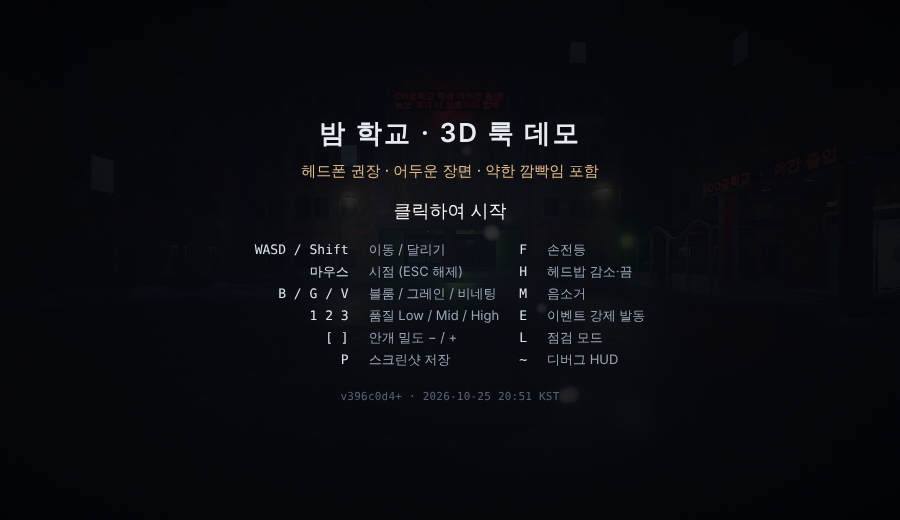
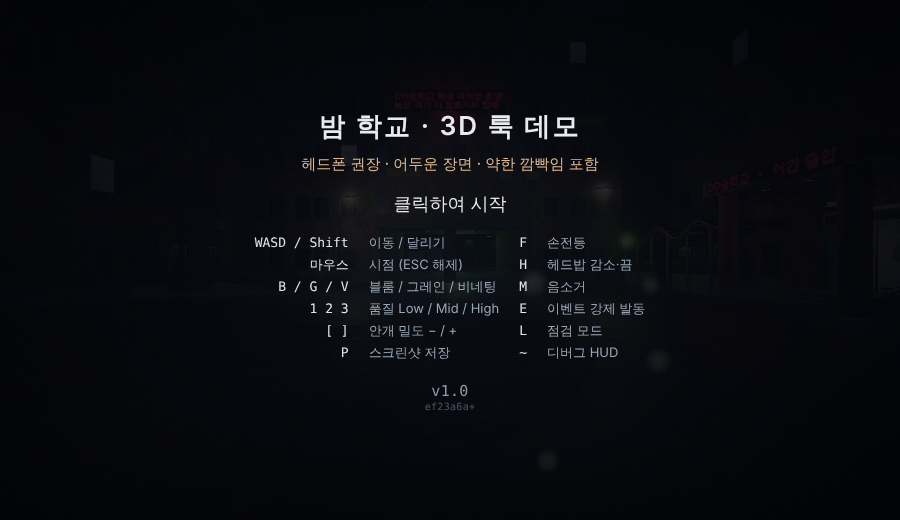
버전 표시를 v1.0 형식으로 단순화(큰 글씨 번호 + 작은 해시), package.json 을 버전 기준으로, main 반영 시 번호 올리는 규칙 추가
Claude-Session: https://claude.ai/code/session_01PbAFjroLPPPYs6SSpPc91i

diff --git a/vite.config.js b/vite.config.js
@@ -1,4 +1,5 @@
 import { execSync } from 'node:child_process';
+import { readFileSync } from 'node:fs';
 import { defineConfig } from 'vite';
 
 const git = (cmd) => {
@@ -9,21 +10,26 @@ const git = (cmd) => {
   }
 };
 
-// 시작 화면에 표시할 버전: 커밋 해시(+ 저장 안 된 변경이 있으면 '+') 와 빌드 시각(KST).
-// 배포(GitHub Actions)된 화면의 해시를 푸시한 커밋과 대조해 새 배포가 반영됐는지 확인한다.
+// 시작 화면 버전: 큰 글씨 `v1.0` (package.json 의 major.minor) + 작은 글씨 커밋 해시.
+// 번호는 `main` 에 반영할 때마다 올린다(CLAUDE.md). 번호를 올리는 걸 잊어도 해시로 새 배포를 구분할 수 있다.
+// 해시 끝 '+' = 커밋 안 된 변경이 있는 로컬 빌드, 개발 서버는 'dev · 해시'.
 function appVersion(command) {
+  const [major, minor] = JSON.parse(readFileSync('package.json', 'utf8')).version.split('.');
   const hash = git('rev-parse --short HEAD') || 'unknown';
   const dirty = git('status --porcelain') ? '+' : '';
-  if (command === 'serve') return `dev · ${hash}${dirty}`;
   const t = new Intl.DateTimeFormat('sv-SE', {
     timeZone: 'Asia/Seoul', year: 'numeric', month: '2-digit', day: '2-digit', hour: '2-digit', minute: '2-digit', hour12: false,
   }).format(new Date());
-  return `v${hash}${dirty} · ${t} KST`;
+  return {
+    label: `v${major}.${minor}`,
+    build: command === 'serve' ? `dev · ${hash}${dirty}` : `${hash}${dirty}`,
+    time: `${t} KST`,
+  };
 }
 
 export default defineConfig(({ command }) => ({
   base: './', // GitHub Pages 하위 경로(/schoolgame/)에서도 에셋을 찾도록 상대 경로 사용
-  define: { __APP_VERSION__: JSON.stringify(appVersion(command)) },
+  define: { __APP_VERSION__: JSON.stringify(appVersion(command)) }, // { label, build, time }
   build: { chunkSizeWarningLimit: 1200 },
   server: { host: true },
 }));

diff --git a/index.html b/index.html
@@ -21,7 +21,9 @@
     table.keys { margin: 0 auto; border-collapse: collapse; font-size: 13px; color: #9aa6b6; }
     table.keys td { padding: 2px 10px; text-align: left; }
     table.keys td:nth-child(odd) { color: #dfe5ee; font-family: ui-monospace, monospace; text-align: right; }
-    #version { margin-top: 18px; font: 11px/1.4 ui-monospace, monospace; color: #566273; letter-spacing: 0.02em; }
+    #version { margin-top: 18px; font-family: ui-monospace, monospace; letter-spacing: 0.02em; }
+    #version .ver-main { font-size: 15px; color: #8d99a9; }
+    #version .ver-sub { font-size: 10px; color: #4a5565; margin-top: 1px; }
     #loading { margin-top: 12px; font-size: 13px; color: #7f8a99; }
     #hud { position: fixed; top: 8px; left: 8px; z-index: 5; font: 12px/1.45 ui-monospace, monospace;
       color: #b8f0c0; background: rgba(0,0,0,0.55); padding: 6px 9px; border-radius: 4px; white-space: pre; display: none; }
@@ -81,7 +83,7 @@
         <tr><td>P</td><td>스크린샷 저장</td><td>~</td><td>디버그 HUD</td></tr>
       </table>
       <div id="loading">텍스처 생성 중…</div>
-      <div id="version"></div>
+      <div id="version"><div class="ver-main"></div><div class="ver-sub"></div></div>
     </div>
   </div>
   <div id="hud"></div>

diff --git a/src/main.js b/src/main.js
@@ -14,7 +14,12 @@ import { Hud } from './debug/hud.js';
 import { isTouchDevice, setupTouch, enterImmersive } from './player/touch.js';
 
 // 시작 화면 버전 표시 (배포가 반영됐는지 확인용). 월드 생성 전에 먼저 보이도록 맨 앞에 둔다
-document.getElementById('version').textContent = __APP_VERSION__;
+{
+  const ver = document.getElementById('version');
+  ver.querySelector('.ver-main').textContent = __APP_VERSION__.label;
+  ver.querySelector('.ver-sub').textContent = __APP_VERSION__.build;
+  ver.title = `빌드 ${__APP_VERSION__.time}`;
+}
 
 const shot = parseShotParams();
 

diff --git a/CLAUDE.md b/CLAUDE.md
@@ -6,6 +6,7 @@
 ## 현재 상태 (요약)
 
 - 명세 S1~S14 구현 완료, 시각 검증 3회 수행. 상세 이력·결정 이유·한계·다음 후보는 [`PROGRESS.md`](PROGRESS.md).
+- 현재 버전 `v1.0` (시작 화면에 `v1.0` + 작은 커밋 해시 표시). 번호는 `package.json` 하나로 관리.
 - 추가 완료: GitHub Pages 배포(`main` 푸시 → `dist/`), 터치 조작(조이스틱·드래그·🔦·접이식 메뉴), 이 규칙 문서.
 - 테스트: `npm run build` / `smoke`(키보드·충돌) / `touch`(터치) / `shots`(스크린샷). 모두 통과 상태.
 - **미검증**: 실제 폰·GPU 에서의 FPS, 터치 감도, 소리. headless 환경에서는 측정할 수 없었다.
@@ -21,12 +22,13 @@
    - `npm run touch` (터치 조작)
    - 외관·조명을 바꿨다면 `npm run build && npm run shots` 로 스크린샷을 찍어 눈으로 확인한다.
 2. **커밋** — 의미 있는 단위로 한국어 메시지, 시스템이 지정한 attribution 줄을 붙인다.
-3. **main 병합** — 작업 브랜치에서 `main` 으로 병합한다.
+3. **버전 올리기** — `main` 에 반영할 때마다 시작 화면 버전(`v1.0`)을 올린다. `npm version minor --no-git-tag-version` (큰 기능 추가는 `major`). `package.json` 이 유일한 기준이고 `package-lock.json` 도 같이 바뀐다. 버전 변경은 그 커밋에 함께 넣는다. (작업 브랜치에만 푸시하는 중간 커밋에서는 올리지 않는다.)
+4. **main 병합** — 작업 브랜치에서 `main` 으로 병합한다.
    - `git fetch origin main` 후 `git merge origin/main` 으로 작업 브랜치에 먼저 합친다. rebase·amend·force-push 는 하지 않는다.
    - 충돌은 양쪽 의도를 보존해 해결한다. 같은 로직을 서로 다르게 바꾼 충돌은 임의로 고르지 말고 묻는다.
    - `main` 에서 새 변경이 들어왔다면 1번 검증을 다시 한다.
    - 그다음 `git push origin HEAD:main` (fast-forward) 과 `git push -u origin <작업 브랜치>` 를 한다.
-4. **보고** — 푸시한 커밋, 검증 결과, 공개 사이트(`https://lagulee.github.io/schoolgame/`)가 곧 갱신된다는 점, Actions 탭에서 배포 확인이 필요하다는 점을 알린다.
+5. **보고** — 푸시한 커밋, 새 버전 번호, 검증 결과, 공개 사이트(`https://lagulee.github.io/schoolgame/`)가 곧 갱신된다는 점, Actions 탭에서 배포 확인이 필요하다는 점을 알린다.
 
 ### 푸시 전에 먼저 물어보는 경우
 

diff --git a/README.md b/README.md
@@ -32,7 +32,7 @@ npm run preview    # 빌드 결과 확인
 
 ## 배포 (GitHub Pages)
 
-시작 화면 맨 아래에 **버전**이 표시된다: `v<커밋 해시> · <빌드 시각> KST`. 배포된 화면의 해시가 방금 푸시한 커밋(`git log --oneline -1`)과 같으면 새 배포가 반영된 것이다. 해시 끝의 `+` 는 저장 안 된 변경이 있는 로컬 빌드, 로컬 개발 서버는 `dev · <해시>` 로 표시된다. (`vite.config.js` 의 `define` 으로 빌드할 때 주입)
+시작 화면 맨 아래에 **버전**이 표시된다: 큰 글씨 `v1.0` 과 그 아래 작은 글씨 커밋 해시. 번호는 `package.json` 의 `version`(major.minor)이고 `main` 에 반영할 때마다 올린다(`npm version minor --no-git-tag-version`). 해시가 방금 푸시한 커밋(`git log --oneline -1`)과 같으면 새 배포가 반영된 것이다. 해시 끝의 `+` 는 저장 안 된 변경이 있는 로컬 빌드, 로컬 개발 서버는 `dev · <해시>`. 마우스를 올리면 빌드 시각(KST)이 보인다.
 
 `.github/workflows/pages.yml` 이 `main` 에 푸시될 때마다 `npm run build` 결과(`dist/`)를 배포합니다.
 설정: 저장소 **Settings → Pages → Source: GitHub Actions** (이미 설정됨). 다른 브랜치에서도 배포하려면 워크플로의 `branches` 에 추가하고 **Settings → Environments → github-pages → Deployment branches** 에서 그 브랜치를 허용해야 합니다.

diff --git a/PROGRESS.md b/PROGRESS.md
@@ -34,7 +34,7 @@
 | main 반영 | main 에 먼저 들어와 있던 임시 시작 페이지·루트 업로드 워크플로와 충돌 → 우리 쪽(Vite 빌드 `dist/` 배포)으로 통일 | PR #2, #3 이 main 에서 이미 머지되어 있었음 |
 | `CLAUDE.md` | main 자동 반영 규칙(검증 → 커밋 → main 병합·푸시, 실험적 수정은 먼저 질문) | 사용자 승인 |
 | `PROGRESS.md` | 이 문서 | |
-| 버전 표시 | 시작 화면 맨 아래에 `v<해시> · <빌드 시각> KST` (dev 는 `dev · <해시>`). 배포 반영 확인용. `vite.config.js` 의 `define` 으로 빌드 시 주입 | 해시 끝 `+` = 커밋 안 된 변경 |
+| 버전 표시 | 시작 화면에 큰 글씨 `v1.0`(package.json major.minor) + 작은 글씨 커밋 해시(배포 반영 확인용). `vite.config.js` 의 `define` 으로 주입. 처음엔 해시+빌드 시각 형식이었다가 사용자 요청으로 단순화 | `main` 반영마다 minor +1 (`CLAUDE.md` 규칙), 해시 끝 `+` = 커밋 안 된 변경 |
 | 외관 사실감 수정 | (1) 창문 밝기 낮춤: 창틀 흰색→회색조, 유리 창살·반사·불 켜진 창 발광 감소 (`config.js` 의 `WINDOW_LOOK`). (2) 공원 나무를 잎 카드 방식 활엽수로 교체 (`world/realTrees.js`, `materials/leaves.js`, 나무껍질 `barkMaps`) | 작업 브랜치에만 푸시, 사용자 확인 후 main (4-a) |
 
 ## 2. 주요 결정과 이유
